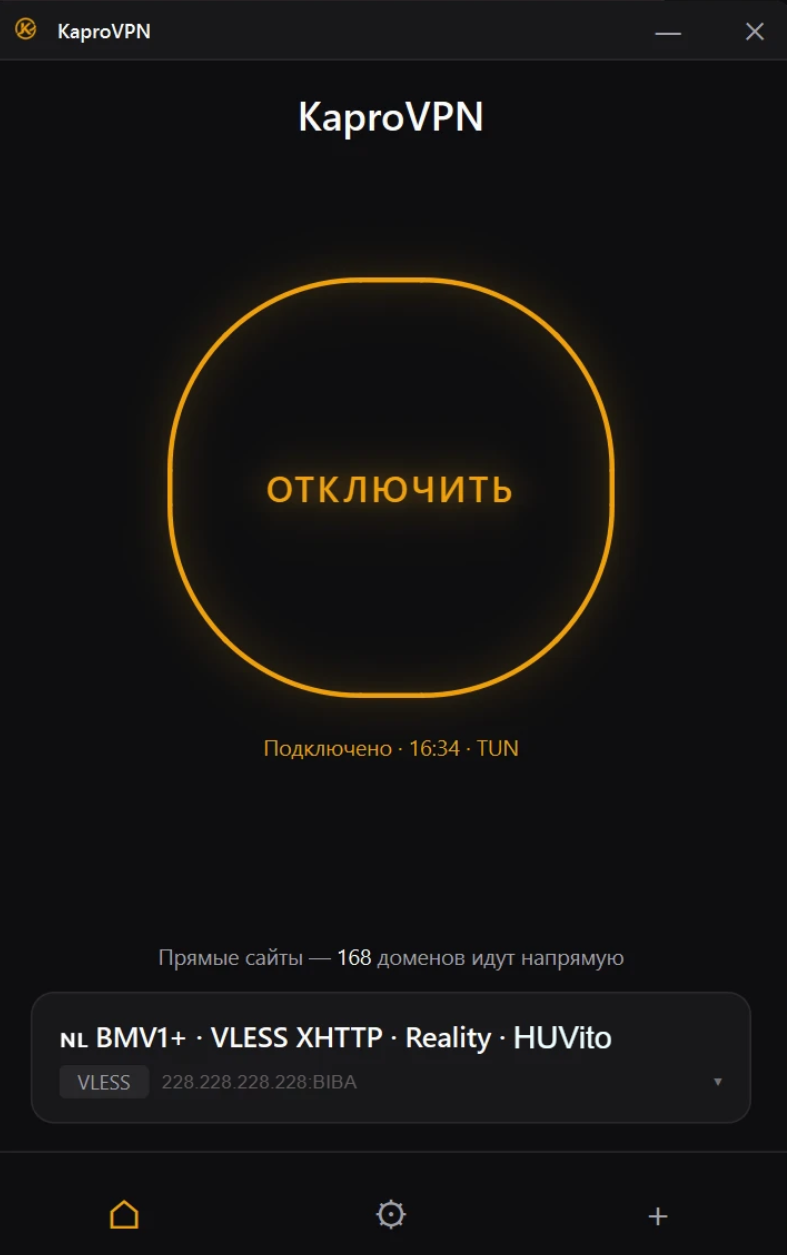
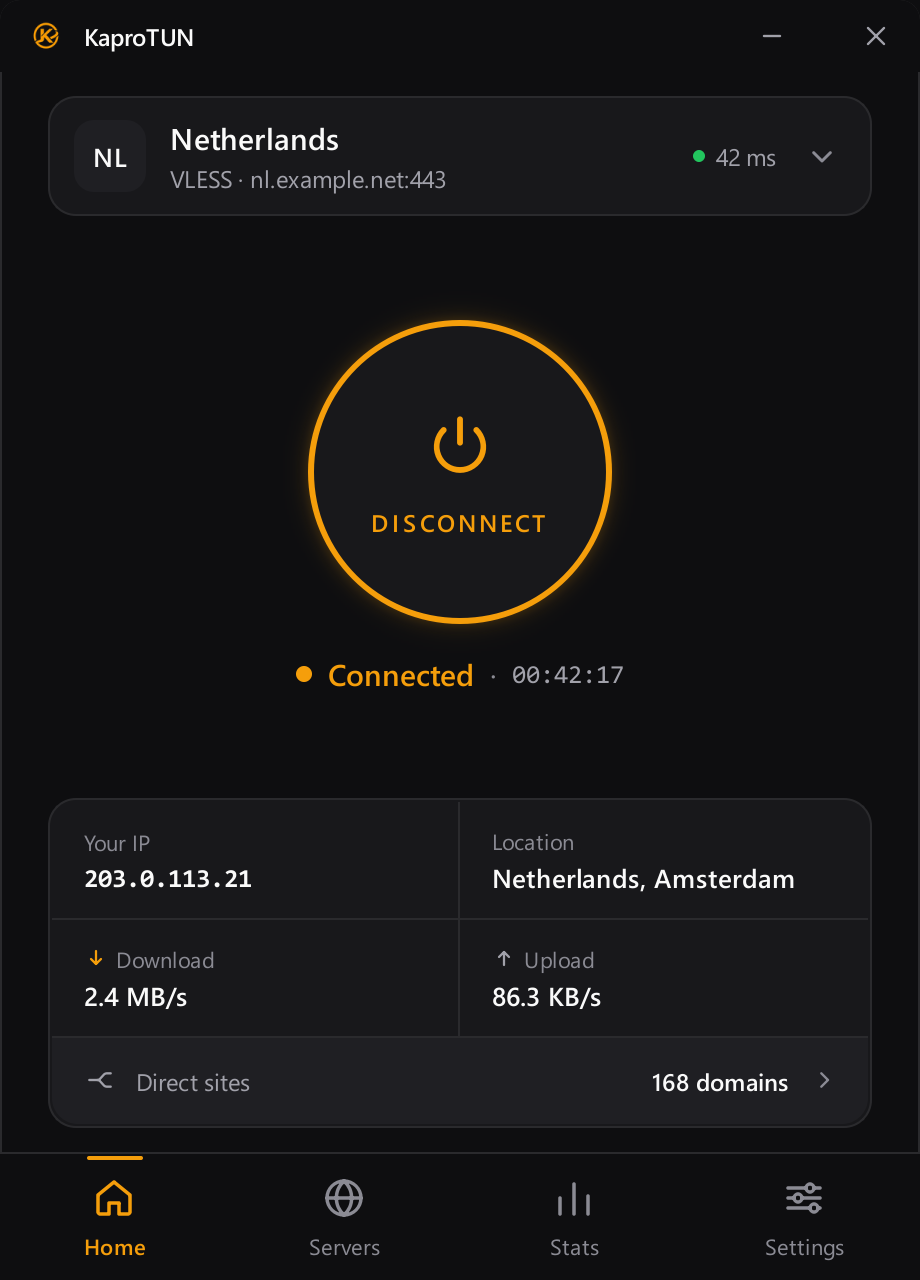
docs: README screenshots of the current interface, text brought up to v4.1.3
Four frames per language, drawn off-screen by
docs/screenshots/make_screenshots.py from made-up data, replace the
single screenshot of the old window. The text now describes the pinned
engine build, the pre-launch checks, the IPv4-only tunnel, the mirror
and the new modules.

diff --git a/docs/screenshots/make_screenshots.py b/docs/screenshots/make_screenshots.py
@@ -1,0 +1,140 @@
+"""Render README screenshots offscreen, with demo data only.
+Run from the repo root: python docs/screenshots/make_screenshots.py <out-dir> <ru|en>"""
+import math
+import os
+import pathlib
+import subprocess
+import sys
+import tempfile
+import time
+
+os.environ["QT_QPA_PLATFORM"] = "offscreen"
+os.environ["QT_QPA_FONTDIR"] = r"C:\Windows\Fonts"
+os.environ["QT_SCALE_FACTOR"] = "2"
+sys.path.insert(0, os.getcwd())
+out = pathlib.Path(sys.argv[1])
+out.mkdir(parents=True, exist_ok=True)
+lang = sys.argv[2] if len(sys.argv) > 2 else "en"
+suffix = "" if lang == "en" else "-ru"
+
+from kapro_tun.core import paths
+
+tmp = pathlib.Path(tempfile.mkdtemp(prefix="kaprotun-readme-"))
+paths.app_data_dir = lambda: tmp
+
+from kapro_tun.core import firewall_sweep, ipv6_block, killswitch, orphans, webrtc_block
+
+
+class _NoSubprocess:
+    def __getattr__(self, attr):
+        return getattr(subprocess, attr)
+
+    @staticmethod
+    def run(cmd, *a, **k):
+        return subprocess.CompletedProcess(cmd, 1, stdout=b"", stderr=b"")
+
+
+for mod in (killswitch, webrtc_block, ipv6_block, firewall_sweep):
+    mod.subprocess = _NoSubprocess()
+orphans._kill = lambda pid: True            # nothing real is ever ended from here
+orphans._processes = lambda: iter(())
+
+from kapro_tun.core import autostart, bandwidth_history, i18n, storage
+from kapro_tun.core.parser import parse
+
+autostart.is_enabled = lambda: False
+autostart.enable = lambda **_k: True
+autostart.disable = lambda: True
+
+uid = "aaaaaaaa-aaaa-aaaa-aaaa-aaaaaaaaaaaa"
+vless = (f"vless://{uid}@%s:%d?type=tcp&security=reality"
+         "&pbk=AAAAAAAAAAAAAAAAAAAAAAAAAAAAAAAAAAAAAAAAAAA&sid=01&fp=chrome#x")
+names = {
+    "ru": ["🇳🇱 Нидерланды", "🇩🇪 Германия", "🇺🇸 США — Нью-Йорк", "🇹🇷 Турция", "🇸🇪 Швеция", "🇫🇮 Финляндия"],
+    "en": ["🇳🇱 Netherlands", "🇩🇪 Germany", "🇺🇸 USA — New York", "🇹🇷 Turkey", "🇸🇪 Sweden", "🇫🇮 Finland"],
+}[lang]
+# example.net is reserved for documentation: nothing real is shown or contacted.
+links = [vless % ("nl.example.net", 443), vless % ("de.example.net", 8443),
+         vless % ("us.example.net", 2053), "trojan://pw@tr.example.net:443?security=tls#x",
+         "hysteria2://pw@se.example.net:443?sni=example.net#x", vless % ("fi.example.net", 2083)]
+ms = [42, 68, 131, 264, 97, 55]
+configs = []
+for name, link in zip(names, links):
+    c = parse(link)
+    c.name = name
+    configs.append(c)
+pings = dict(zip(names, ms))
+storage.save_configs(configs)
+storage.update_settings({"language": lang, "theme": "dark", "last_config_name": names[0],
+                         "public_ip_probe": True, "subscription_auto_refresh": False})
+i18n.init_from_settings(lang)
+
+from PySide6.QtCore import QTimer
+from PySide6.QtTest import QTest
+from PySide6.QtWidgets import QApplication, QScrollArea
+
+app = QApplication(sys.argv)
+from kapro_tun.gui import connection_state as cs
+from kapro_tun.gui.main_window import MainWindow
+from kapro_tun.gui.styles import get_qss
+
+app.setStyleSheet(get_qss("dark"))
+w = MainWindow()
+w.show()
+QTest.qWait(1200)
+if getattr(w, "_tray_pinger", None) is not None:
+    for sig in (w._tray_pinger.pinged, w._tray_pinger.finished):
+        sig.disconnect()
+    w._tray_pinger.requestInterruption()
+w.servers_page.set_pinging(False)
+for attr in vars(w).values():
+    if isinstance(attr, QTimer):
+        attr.stop()
+
+
+def shot(name: str) -> None:
+    QTest.qWait(500)
+    w.grab().save(str(out / f"{name}{suffix}.png"))
+    print("saved", name, flush=True)
+
+
+country, city = ("Нидерланды", "Амстердам") if lang == "ru" else ("Netherlands", "Amsterdam")
+home = w.home_page
+w._tray_pings = dict(pings)
+w.servers_page.set_pings(pings)
+w._refresh_home()
+w._goto("home")
+home.set_ping(42)
+home.set_state(cs.CONNECTED, "00:42:17")
+home.set_public_ip("203.0.113.21", country, city, "NL")     # a documentation address
+home.set_traffic(86.3 * 1024, 2.4 * 1024 * 1024, 0, 0)
+shot("main-window")
+
+w._on_open_servers()
+w.servers_page.select(names[0])
+shot("servers")
+
+w._goto("settings")
+sp = w.settings_page
+sp.findChild(QScrollArea).verticalScrollBar().setValue(0)
+shot("settings")
+
+w._goto("stats")
+now = int(time.time())
+for hour in range(24):
+    if hour in (3, 4, 5, 13, 14):
+        continue
+    level = 0.25 + 0.75 * abs(math.sin(hour * 0.9))
+    for minute in range(0, 60, 10):
+        bandwidth_history.record(int(level * 4e6), int(level * 90e6),
+                                 ts=now - (24 - hour) * 3600 + minute * 60 + 30)
+stats = w.stats_page
+stats.set_live_connected(True)
+for i in range(60):
+    stats.on_live_sample(86.3 * 1024 * (0.6 + 0.4 * math.sin(i / 5)),
+                         2.4 * 1024 * 1024 * (0.55 + 0.45 * math.sin(i / 7 + 1)),
+                         int(9.6 * 2**20), int(148.2 * 2**20))
+stats.refresh()
+shot("statistics")
+print("window:", w.width(), "x", w.height(), flush=True)
+os._exit(0)

diff --git a/README.ru.md b/README.ru.md
@@ -14,7 +14,10 @@
 телеметрии.
 
 <p align="center">
-  <img src="docs/screenshots/main-window.png" alt="Главное окно KaproTUN — тёмная тема, один экран" width="640">
+  <img src="docs/screenshots/main-window-ru.png" alt="Главный экран KaproTUN: подключено, внешний IP и локация, текущая скорость" width="210">
+  <img src="docs/screenshots/servers-ru.png" alt="Список серверов с пингом, поиском и сортировкой" width="210">
+  <img src="docs/screenshots/statistics-ru.png" alt="Статистика: текущая скорость и трафик за 24 часа" width="210">
+  <img src="docs/screenshots/settings-ru.png" alt="Настройки: автозапуск, kill-switch, защита от утечек" width="210">
 </p>
 
 ---
@@ -143,14 +146,25 @@ VMess, Shadowsocks, Hysteria2), который поднимает их как **
 - 🔒 **Шифрование конфигов на диске** — Windows DPAPI (тот же механизм, которым
   Chrome защищает сохранённые пароли). Старые открытые конфиги обновляются при
   первом запуске.
+- ✅ **Запускается только проверенное** — движок и драйвер перед каждым
+  запуском сверяются с контрольными суммами SHA-256, закреплёнными в коде, а в
+  Windows ещё и удерживаются от подмены, пока работают. Установщик и
+  обновление не ставят файл, который не совпал со своей суммой. Файл данных,
+  который не удалось прочитать, откладывается копией, а не затирается.
 - 🚫 **Защита от утечек** — IPv6 отклоняется внутри туннеля (без побочного
   `ERR_NETWORK_ACCESS_DENIED`; в Linux — запрещающим маршрутом), WebRTC/STUN
-  блокируются в Windows, DNS перехватывается в резолвер туннеля.
+  блокируются в Windows, DNS перехватывается в резолвер туннеля. Если в
+  Windows IPv6 отключён, туннель строится только с IPv4, а исходящий IPv6
+  закрывается правилом брандмауэра.
 - 📡 **Быстрое подключение из трея** — три самых быстрых по пингу конфига, смена
   в один клик.
 - 🌍 **Локализация EN / RU**, светлая и тёмная темы, живой график трафика, пинг
   по каждому конфигу.
-- 🔄 **Автообновление** — проверяет GitHub Releases, скачивает, устанавливает.
+- 🔄 **Автообновление** — проверяет GitHub Releases, скачивает установщик
+  (сначала с нашего зеркала, затем с GitHub), сверяет контрольную сумму,
+  устанавливает.
+- 🤝 **Не мешает другим VPN-клиентам** — при запуске убирает только свои
+  зависшие процессы и не трогает движок другого клиента с тем же именем.
 
 ## Приватность
 
@@ -172,7 +186,7 @@ VMess, Shadowsocks, Hysteria2), который поднимает их как **
 | macOS | 13+ (Apple Silicon и Intel) |
 | Linux | glibc 2.31+ (Ubuntu 20.04+ и аналоги) |
 
-Место на диске: ~90 МБ (≈57 МБ приложение + ≈33 МБ движок sing-box и, на
+Место на диске: ~105 МБ (≈66 МБ приложение + ≈38 МБ движок sing-box и, на
 Windows, драйвер WinTUN — скачиваются при первом подключении).
 
 ## Установка и запуск
@@ -203,11 +217,12 @@ pyinstaller KaproTUN-Setup.spec    # → dist/KaproTUN-Setup.exe (установ
 (Windows) или `~/.local/share/KaproTUN/` (macOS / Linux): **sing-box**
 (`sing-box/`) и, на Windows, драйвер **WinTUN** (`tun/`).
 
-> Версия sing-box намеренно **закреплена на линии 1.12.x**. Линия 1.13 сломала
-> data-plane VLESS на Windows: туннель поднимается, рукопожатие проходит, но
-> байты полезной нагрузки не идут. `sing-box check` это не ловит — ошибка
-> проявляется в рантайме, а не в конфиге. Уже установленная 1.13.x
-> распознаётся и заменяется автоматически.
+> Версия sing-box намеренно **закреплена на одной сборке, 1.12.9**. Линия 1.13
+> сломала data-plane VLESS на Windows: туннель поднимается, рукопожатие
+> проходит, но байты полезной нагрузки не идут. `sing-box check` это не ловит —
+> ошибка проявляется в рантайме, а не в конфиге. Закрепление — это SHA-256
+> файла: любая другая сборка в папке движка, новее, старее или изменённая, не
+> запускается и заменяется закреплённой.
 
 ## Как это работает
 
@@ -247,9 +262,12 @@ kapro_tun/
 ├── core/
 │   ├── parser.py             # разбор ссылок-конфигов (vless / vmess / trojan / ss / hy2)
 │   ├── sing_box_config.py    # генерация JSON для sing-box: маршрутизация, DNS, TUN, проверка транспорта
-│   ├── sing_box_installer.py # скачивание sing-box (зеркало → GitHub), контроль пина 1.12.x
+│   ├── sing_box_installer.py # скачивание sing-box (зеркало → GitHub), закрепление сборки по SHA-256
+│   ├── file_guard.py         # сверка файла с контрольной суммой и удержание, пока он работает
 │   ├── sing_box_process.py   # процесс sing-box + классификатор шума в логах
 │   ├── controller.py         # жизненный цикл подключения, вердикт здоровья, детект смены сети
+│   ├── egress.py             # через какую физическую сеть идёт трафик (для детекта смены сети)
+│   ├── orphans.py            # завершение только своих зависших процессов движка
 │   ├── net_diag.py           # снимок для «Сетевой диагностики» + пробы TCP/UDP
 │   ├── dns_health.py         # ограниченные по времени пробы DNS и транспорта туннеля
 │   ├── network_routes.py     # запросы маршрутов и интерфейсов в Windows
@@ -263,11 +281,12 @@ kapro_tun/
 │   ├── i18n.py               # таблицы переводов EN/RU
 │   └── paths.py
 ├── gui/
-│   ├── main_window.py        # главный экран / настройки / логи, сторожа, поток подключения
+│   ├── main_window.py        # каркас окна, навигация, сторожа, поток подключения
+│   ├── home_v2.py            # главный экран: кнопка подключения, карточка сервера, IP и скорость
 │   ├── diagnostics_dialog.py # экран «Сетевая диагностика»
 │   ├── bypass_apps_dialog.py # свои приложения мимо VPN
 │   ├── servers_page.py, add_server_v2.py, settings_v2.py, stats_page.py
-│   ├── kit.py, tokens.py, icons_v2.py  # shared widgets, design tokens, icons
+│   ├── kit.py, tokens.py, icons_v2.py  # общие виджеты, дизайн-токены, иконки
 │   ├── sites_dialog.py, leak_test_dialog.py, updater_dialog.py
 │   ├── tray.py               # трей с быстрым подключением к трём лучшим
 │   └── widgets.py, styles.py

diff --git a/README.md b/README.md
@@ -13,7 +13,10 @@ directly on your real connection, everything else goes through the tunnel.
 Free and open-source forever — GPL v3, no paid tier, no telemetry.
 
 <p align="center">
-  <img src="docs/screenshots/main-window.png" alt="KaproTUN main window — dark theme, single-screen layout" width="640">
+  <img src="docs/screenshots/main-window.png" alt="KaproTUN home screen: connected, exit IP and location, live speed" width="210">
+  <img src="docs/screenshots/servers.png" alt="Server list with ping, search and sorting" width="210">
+  <img src="docs/screenshots/statistics.png" alt="Statistics: live speed and traffic for the last 24 hours" width="210">
+  <img src="docs/screenshots/settings.png" alt="Settings: startup, kill switch, leak protection" width="210">
 </p>
 
 ---
@@ -137,14 +140,23 @@ interface and straight into the block they're being tunnelled to avoid.
   and real TCP/UDP/proxy tests in one copy-pasteable report. Plus an opt-in
   **Network Debug Mode** with millisecond event logging to catch rare problems.
 - 🔒 **Encrypted-on-disk configs** — Windows DPAPI (the mechanism Chrome uses
-  for saved passwords). Old plaintext configs auto-upgrade on first launch.
+  for saved passwords). Old plaintext configs auto-upgrade on first launch. A
+  file that cannot be read is set aside, never overwritten.
+- ✅ **Only verified files are run** — the engine and the driver are compared
+  with SHA-256 digests pinned in the source before every start, and on Windows
+  held against replacement while they run. The installer and the in-app
+  updater install nothing that does not match its digest.
 - 🚫 **Leak protection** — IPv6 rejected in-tunnel (no `ERR_NETWORK_ACCESS_DENIED`
   fallout; an unreachable route on Linux), WebRTC/STUN blocked on Windows, DNS
-  hijacked into the tunnel's resolver.
+  hijacked into the tunnel's resolver. Where Windows has IPv6 switched off the
+  tunnel is built IPv4-only and outbound IPv6 is closed at the firewall.
 - 📡 **Tray quick-connect** — top-3 fastest configs by ping, one click to switch.
 - 🌍 **EN / RU localisation**, light/dark themes, live traffic graph, per-config
   ping.
-- 🔄 **In-app auto-update** — checks GitHub Releases, downloads, installs.
+- 🔄 **In-app auto-update** — checks GitHub Releases, downloads the installer
+  (our mirror first, GitHub second), verifies its checksum, installs.
+- 🤝 **Leaves other VPN clients alone** — on startup it cleans up only its own
+  leftover processes, never another client's engine of the same name.
 
 ## Privacy
 
@@ -166,7 +178,7 @@ address.
 | macOS | 13+ (Apple Silicon and Intel) |
 | Linux | glibc 2.31+ (Ubuntu 20.04+ and equivalents) |
 
-Disk: ~90 MB total (~57 MB app + ~33 MB for the sing-box engine and, on
+Disk: ~105 MB total (~66 MB app + ~38 MB for the sing-box engine and, on
 Windows, the WinTUN driver — both downloaded on first connect).
 
 ## Install & run
@@ -197,11 +209,12 @@ On first connect the app downloads its engine into `%LOCALAPPDATA%\KaproTUN\`
 (Windows) or `~/.local/share/KaproTUN/` (macOS / Linux): **sing-box**
 (`sing-box/`) and, on Windows, the **WinTUN** driver (`tun/`).
 
-> The sing-box version is **pinned to the 1.12.x line** on purpose. The 1.13
+> The sing-box version is **pinned to one build, 1.12.9**, on purpose. The 1.13
 > line regressed the VLESS data-path on Windows — the tunnel establishes and
 > the handshake succeeds, but payload bytes never flow, which `sing-box check`
-> cannot catch because it's a runtime bug, not a config error. An already
-> installed 1.13.x is detected and replaced automatically.
+> cannot catch because it's a runtime bug, not a config error. The pin is the
+> file's SHA-256: any other build found in the engine folder — newer, older or
+> modified — is not run and is replaced with the pinned one.
 
 ## How it works
 
@@ -240,9 +253,12 @@ kapro_tun/
 ├── core/
 │   ├── parser.py             # share-URL parsers (vless / vmess / trojan / ss / hy2)
 │   ├── sing_box_config.py    # generates the sing-box JSON: routing, DNS, TUN, transport gate
-│   ├── sing_box_installer.py # downloads sing-box (mirror → GitHub), enforces the 1.12.x pin
+│   ├── sing_box_installer.py # downloads sing-box (mirror → GitHub), pins the build by SHA-256
+│   ├── file_guard.py         # checks a file against its digest and holds it while it runs
 │   ├── sing_box_process.py   # sing-box subprocess + log-noise classifier
 │   ├── controller.py         # connect/disconnect lifecycle, health verdict, roam detection
+│   ├── egress.py             # which physical network the machine is on (for roam detection)
+│   ├── orphans.py            # ends only our own leftover engine processes
 │   ├── net_diag.py           # Network Diagnostics snapshot + TCP/UDP probes
 │   ├── dns_health.py         # bounded DNS / tunnel-transport probes
 │   ├── network_routes.py     # Windows route + interface queries
@@ -256,7 +272,8 @@ kapro_tun/
 │   ├── i18n.py               # EN/RU translation tables
 │   └── paths.py
 ├── gui/
-│   ├── main_window.py        # home / settings / logs, watchdogs, connect flow
+│   ├── main_window.py        # window shell, navigation, watchdogs, connect flow
+│   ├── home_v2.py            # home screen: connect button, server card, IP and speed
 │   ├── diagnostics_dialog.py # Network Diagnostics screen
 │   ├── bypass_apps_dialog.py # user-defined apps that skip the VPN
 │   ├── servers_page.py, add_server_v2.py, settings_v2.py, stats_page.py

diff --git a/docs/screenshots/README.md b/docs/screenshots/README.md
@@ -1,39 +1,35 @@
-# Screenshots для README
+# Скриншоты для README
 
-`README.md` и `README.ru.md` ссылаются на один файл:
+`README.md` и `README.ru.md` показывают по четыре кадра нового интерфейса:
 
-- **`main-window.png`** — главное окно приложения, **рекомендуемая
-  ширина 1200-1400 px**, тёмная тема, подключённое состояние
-  (большая янтарная кнопка «Отключить», виден активный конфиг,
-  статус «Подключено · …»). На гитхабе картинка ужмётся, но
-  большой исходник даёт чёткость на ретине.
+| Кадр | Английский README | Русский README |
+|---|---|---|
+| Главный экран, подключено | `main-window.png` | `main-window-ru.png` |
+| Список серверов | `servers.png` | `servers-ru.png` |
+| Статистика | `statistics.png` | `statistics-ru.png` |
+| Настройки | `settings.png` | `settings-ru.png` |
 
-## Анонимизация (важно — публикуется под GPL)
+## Как их получить
 
-Перед коммитом проверь что на скриншоте не видно:
+Кадры не снимаются с экрана. Их рисует скрипт `make_screenshots.py`: он
+запускает окно клиента без вывода на экран, во временной папке данных и с
+выдуманными серверами, и сохраняет кадры в двойном разрешении.
 
-- 🚫 **Реального IP твоего VPN-сервера** — для скриншота используй
-  тестовый конфиг с обобщённым адресом (например `228.228.228.228:BIBA`).
-- 🚫 **Subscription-URL с твоим private token'ом** (если он отображён
-  где-то в Settings).
-- 🚫 **`C:\Users\<твоё-имя>\...`** в path-полях.
+Из корня репозитория:
 
-Скриншот публикуется на github.com под GPL вместе с кодом — то, что
-заблюришь, никто не увидит; то, что не заблюришь — проиндексирует
-Google.
+```
+python docs/screenshots/make_screenshots.py docs/screenshots en
+python docs/screenshots/make_screenshots.py docs/screenshots ru
+```
 
-## Опционально потом
+Скрипт ничего не подключает, не трогает настоящую папку данных, правила
+брандмауэра и процессы. После смены интерфейса достаточно запустить его
+заново и закоммитить изменившиеся файлы.
 
-Если когда-нибудь захочется добавить второй кадр в README — хороший
-кандидат `tray.png` (раскрытое меню системного трея с топ-3
-quick-connect). Снимать: правый-клик по иконке KaproTUN в трее → пока
-меню открыто, `PrtSc` → вставь в Paint → обрежь до меню → положи как
-`docs/screenshots/tray.png`. Под него блок в README сейчас не
-зарезервирован — добавлять надо вручную обоим файлам.
+## Что на кадрах
 
-## Если файла нет
-
-Hero-картинка вверху README показывается как broken-image иконка.
-README сам не ломается, но GitHub-страница выглядит как «work in
-progress». Чем быстрее положишь `main-window.png` — тем раньше
-проект перестанет выглядеть полу-готовым.
+Только выдуманные данные: серверы на `*.example.net`, внешний адрес
+`203.0.113.21` (диапазон для документации), придуманный трафик. Настоящих
+адресов серверов, ссылок подписок и путей с именем пользователя на кадрах
+нет и быть не должно. Если меняешь скрипт, проверь это перед коммитом: кадры
+публикуются вместе с кодом.
